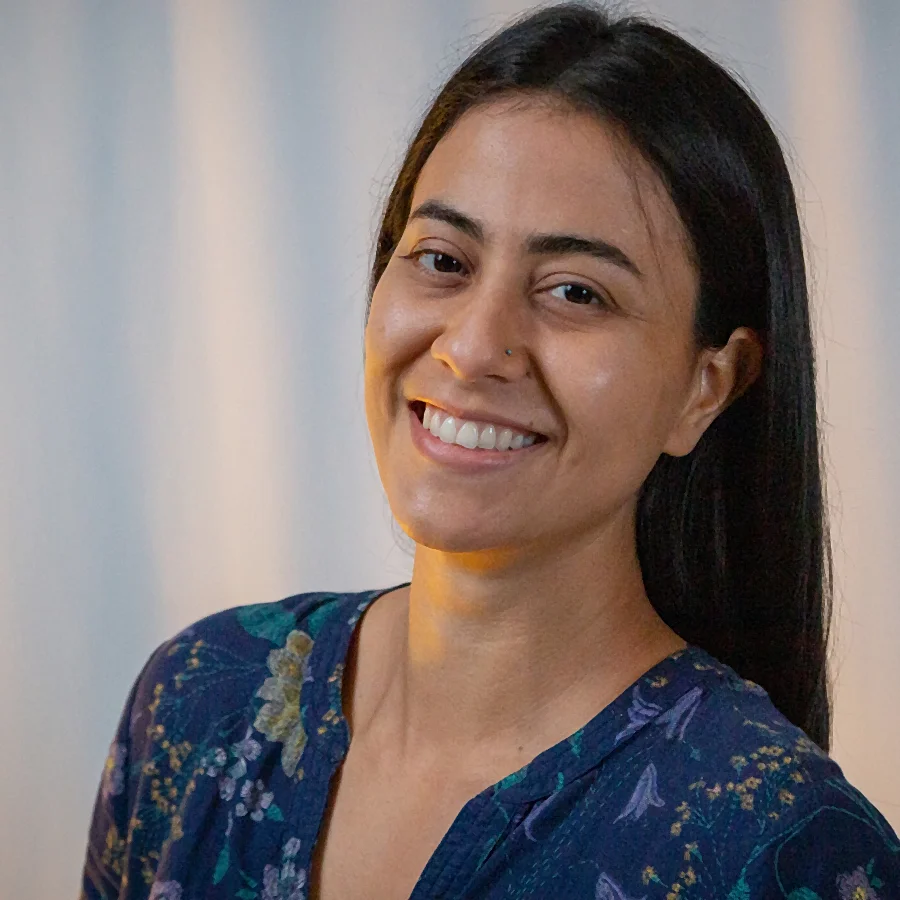
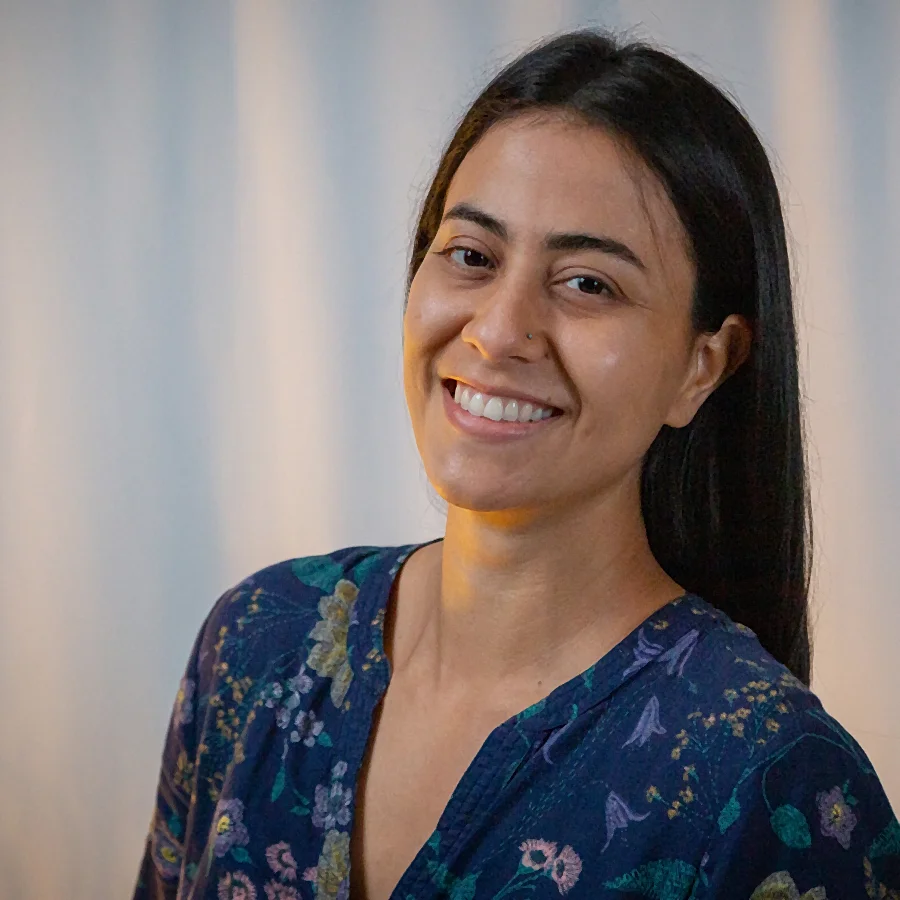
Fix Edith photo framing and admin message auto-send
- Re-crop Edith's photo: zoom out slightly and center her in frame
- Remove auto-send wave emoji when admin clicks Message on a client
- If conversation exists, navigate directly to it
- If no conversation, create one silently without sending a message
- New API route: POST /api/admin/conversations/:clientId (create only)

diff --git a/client/src/pages/admin.tsx b/client/src/pages/admin.tsx
@@ -8625,18 +8625,16 @@ function AdminMessagesManager({ token, onBack, initialClientId, onClearInitialCl
         if (existing) {
           await selectConversation(existing);
         } else {
-          // Send an empty init message to create the conversation, then refresh
-          // Actually, just select and let the admin type the first message
-          // We need to create the conversation first
+          // Create conversation without sending a message
           try {
-            const res = await adminFetch(`/api/admin/conversations/${initialClientId}/messages`, token, {
+            const res = await adminFetch(`/api/admin/conversations/${initialClientId}`, token, {
               method: "POST",
-              body: JSON.stringify({ message: "👋" }),
             });
             if (res.ok) {
-              const freshConvos = await loadConversations();
-              const newConvo = freshConvos.find((c: any) => c.clientId === initialClientId);
-              if (newConvo) await selectConversation(newConvo);
+              const newConvo = await res.json();
+              setConversations((prev) => [newConvo, ...prev]);
+              setSelectedConvo(newConvo);
+              setChatMessages([]);
             }
           } catch {}
         }

diff --git a/server/routes.ts b/server/routes.ts
@@ -1080,6 +1080,26 @@ export async function registerRoutes(
     }
   });
 
+  // Admin: get or create conversation with a client (no message sent)
+  app.post("/api/admin/conversations/:clientId", isAdmin, async (req, res) => {
+    try {
+      const clientId = req.params.clientId as string;
+      const conversation = await storage.getOrCreateAdminConversation(clientId);
+      const allUsers = await storage.getAllUsers();
+      const user = allUsers.find((u) => u.id === clientId);
+      res.json({
+        ...conversation,
+        clientName: user ? [user.firstName, user.lastName].filter(Boolean).join(" ") || "Client" : "Client",
+        clientEmail: user?.email || "",
+        clientPhoto: user?.profileImageUrl || null,
+        latestMessage: null,
+        unreadCount: 0,
+      });
+    } catch (err: any) {
+      res.status(500).json({ message: "Failed to create conversation" });
+    }
+  });
+
   // Admin: send message to client (creates conversation if needed)
   app.post("/api/admin/conversations/:clientId/messages", isAdmin, async (req, res) => {
     try {
